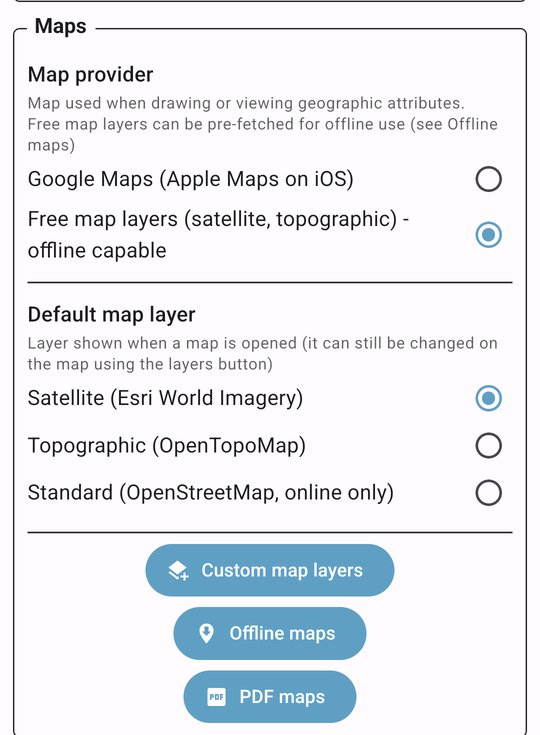
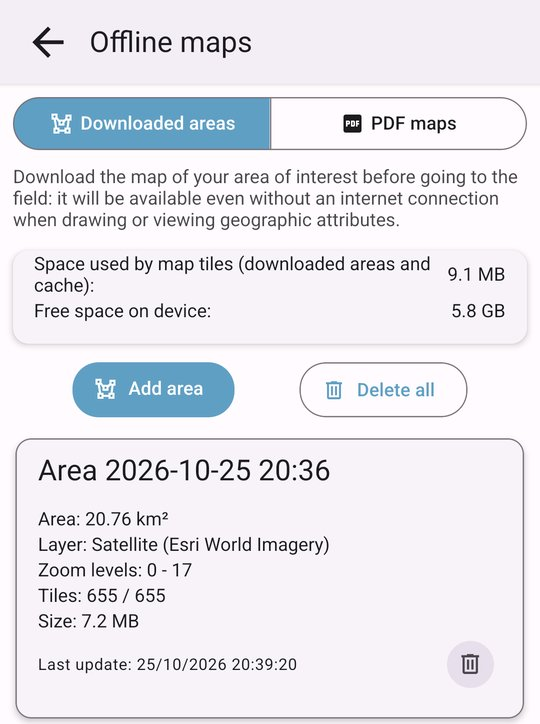
What's new: screenshots with real maps
Offline maps: area editor, downloaded area viewed offline, areas list.
External GPS: recorded location shown on the map.

Changed region(s): [[0.0, 0.0, 0.9778, 1.0], [0.8296, 0.547, 0.8593, 0.5773]]

diff --git a/src/model/WhatsNew.ts b/src/model/WhatsNew.ts
@@ -8,7 +8,7 @@ export type WhatsNewItem = {
   version: string;
   // Material Design icon name
   icon: string;
-  // screenshots (stored in assets/whatsNew, at most 3 per item)
+  // screenshots (stored in assets/whatsNew)
   images?: ImageSourcePropType[];
 };
 
@@ -22,6 +22,7 @@ const items: WhatsNewItem[] = [
       require("../../assets/whatsNew/offlineMaps-1.jpg"),
       require("../../assets/whatsNew/offlineMaps-2.jpg"),
       require("../../assets/whatsNew/offlineMaps-3.jpg"),
+      require("../../assets/whatsNew/offlineMaps-4.jpg"),
     ],
   },
   {
@@ -40,6 +41,7 @@ const items: WhatsNewItem[] = [
     images: [
       require("../../assets/whatsNew/externalGps-1.jpg"),
       require("../../assets/whatsNew/externalGps-2.jpg"),
+      require("../../assets/whatsNew/externalGps-3.jpg"),
     ],
   },
 ];

diff --git a/src/appComponents/WhatsNew/WhatsNewSlide.tsx b/src/appComponents/WhatsNew/WhatsNewSlide.tsx
@@ -50,7 +50,7 @@ export const WhatsNewSlide = (props: WhatsNewSlideProps) => {
 
   const title = t(WhatsNew.getTitleKey(item));
   // limited so that the description is still visible in landscape orientation
-  const imageMaxHeight = windowHeight * 0.25;
+  const imageMaxHeight = windowHeight * 0.3;
 
   // one image at a time, beside the previous/next buttons when there are more
   const imageMaxWidth =
